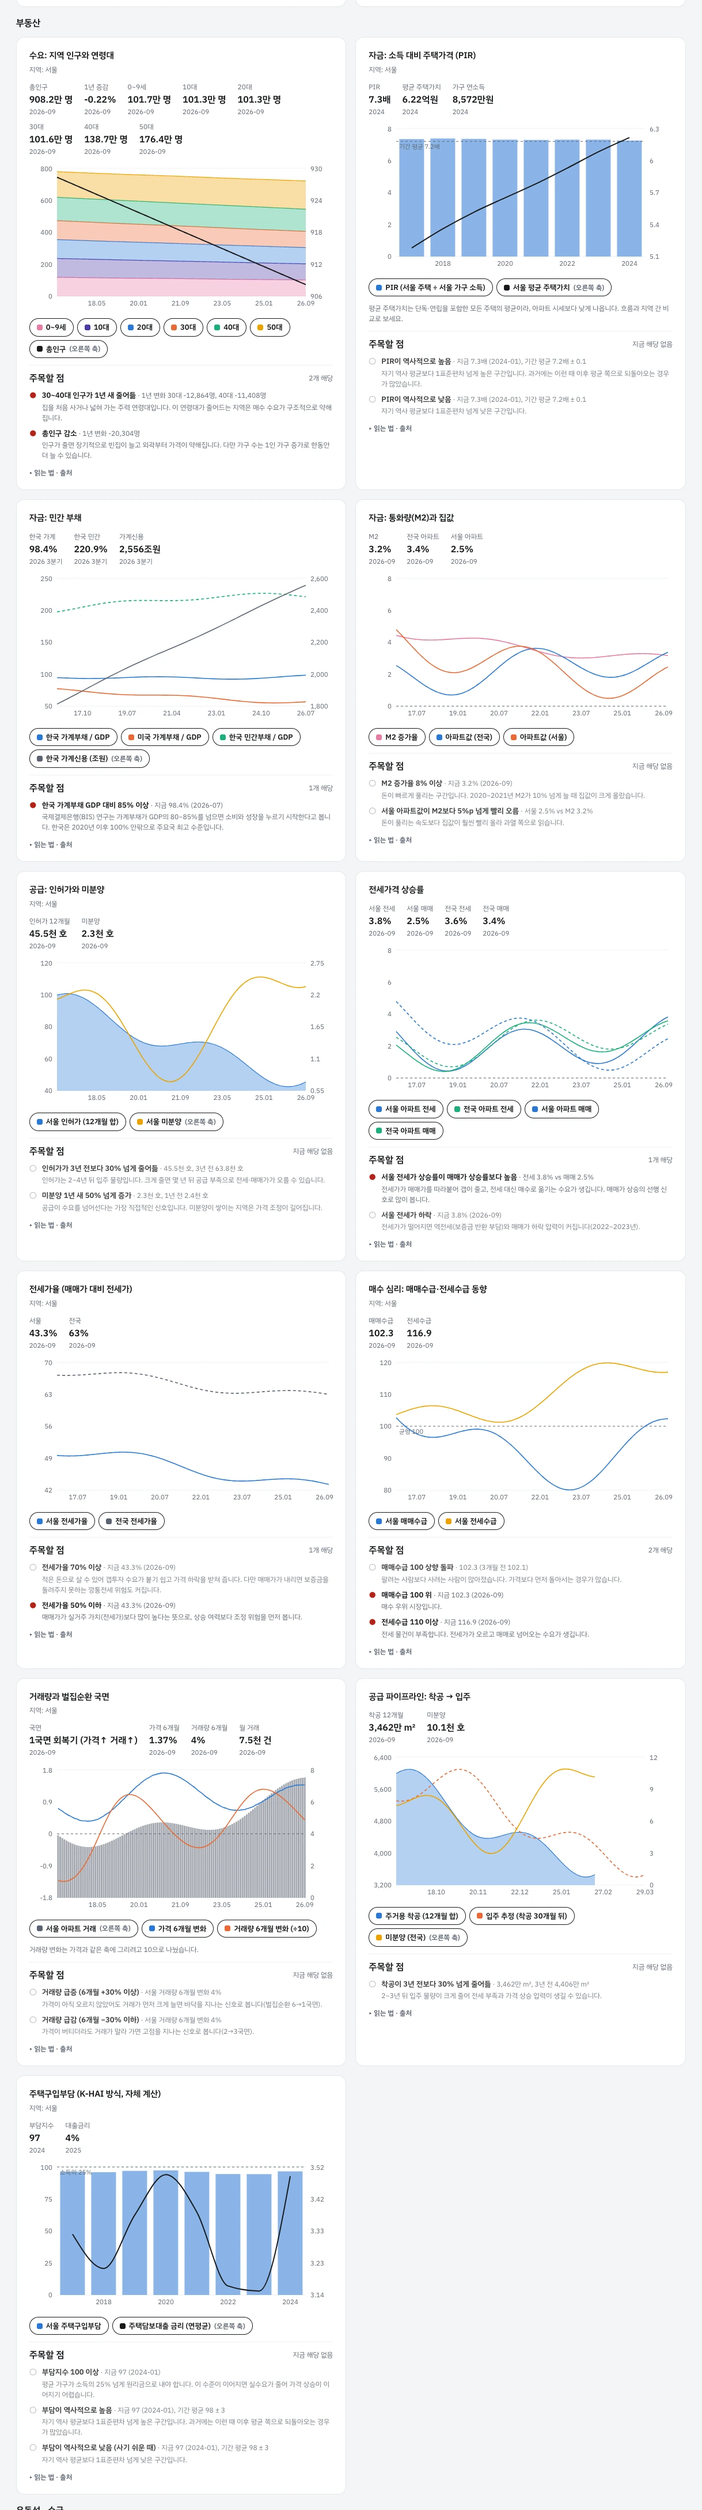
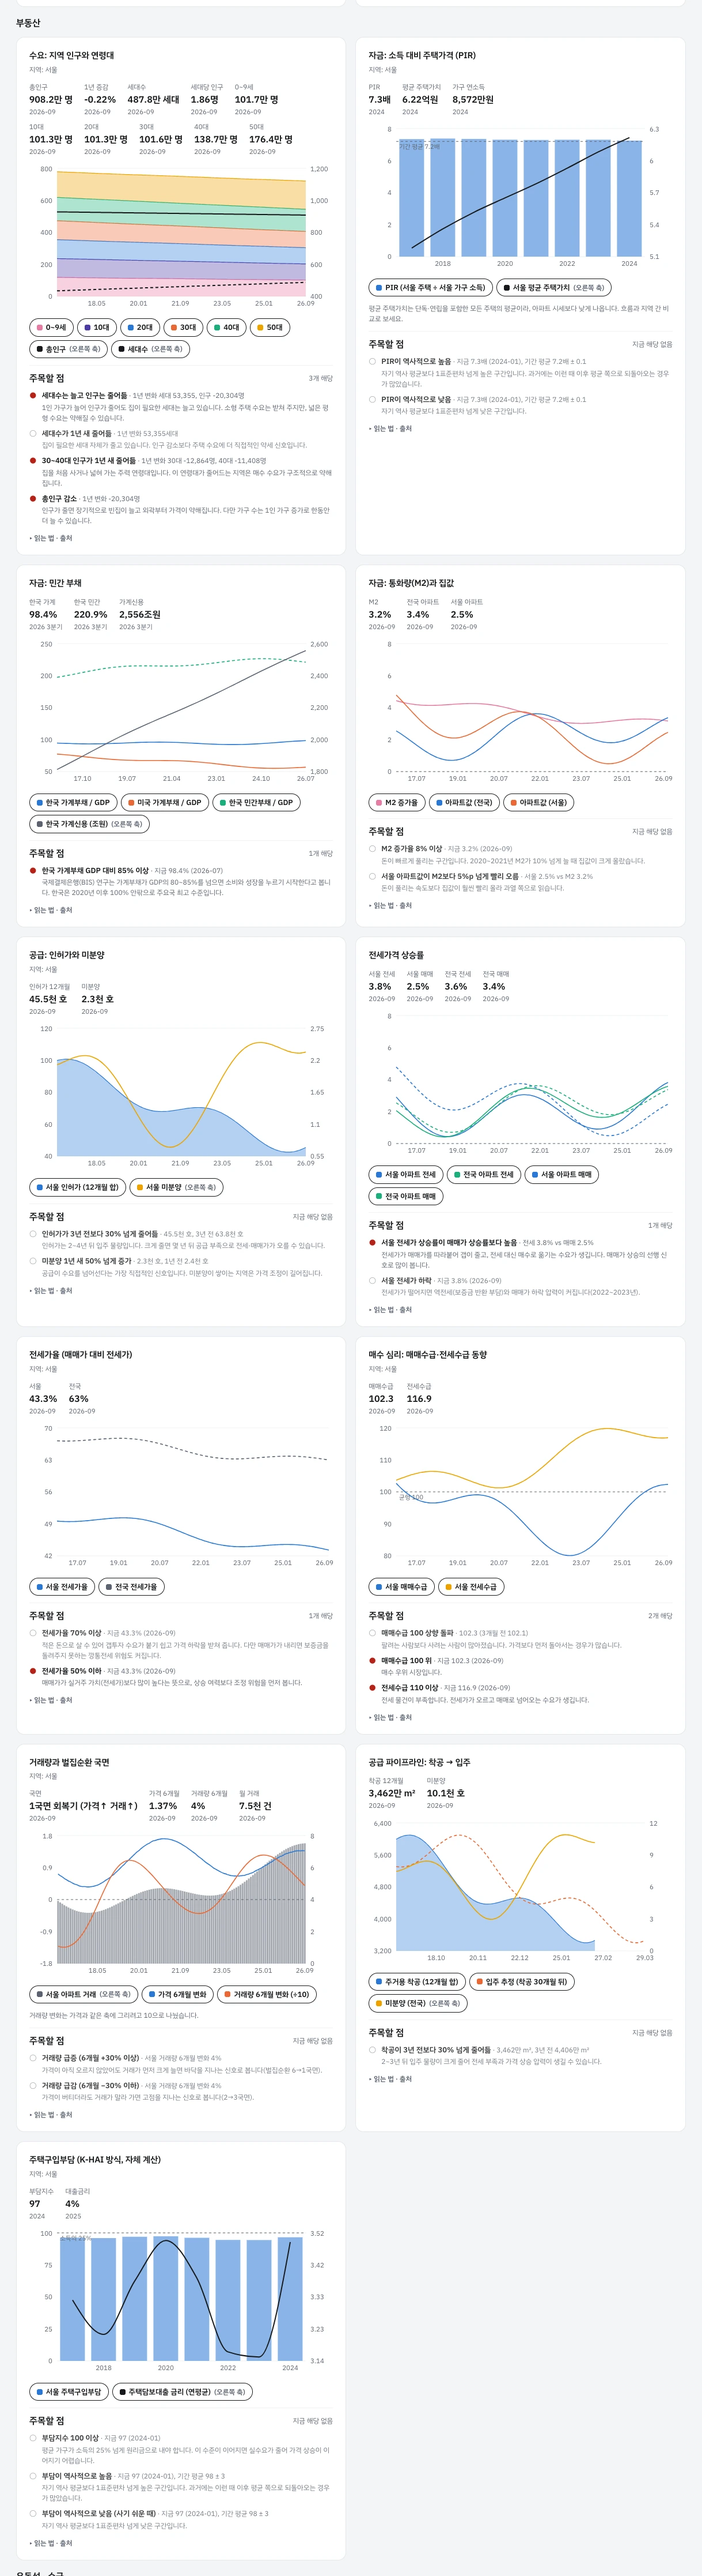
Document the journal indicator panel, households and the removed-asset fix

diff --git a/scripts/docs/capture.ts b/scripts/docs/capture.ts
@@ -475,6 +475,16 @@ const SHOTS: Shot[] = [
   },
   { file: 'journal-body', path: (ids) => `/journal/${ids.nvdaJournal}`, wait: 4000, width: 1280, clip: [{ sel: '.doc-body' }], pad: 16 },
   {
+    file: 'journal-indicators',
+    path: (ids) => `/journal/${ids.nvdaJournal}`,
+    wait: 3000,
+    width: 1600,
+    height: 1100,
+    steps: [{ click: { sel: 'button', text: '분석 지표' } }, { until: "!!document.querySelector('.indicator-panel svg.recharts-surface .recharts-line-curve')", timeout: 60_000 }, { wait: 1200 }],
+    clip: [{ sel: '.doc-bar' }, { sel: '.indicator-panel' }],
+    marks: [{ sel: 'button', text: '분석 지표' }, { sel: '.indicator-panel select' }, { sel: '.indicator-panel .ind-latest' }, { sel: 'button', text: '일지에 넣기' }],
+  },
+  {
     file: 'journal-stock-chart',
     path: (ids) => `/journal/${ids.aaplJournal}`,
     wait: 5000,
